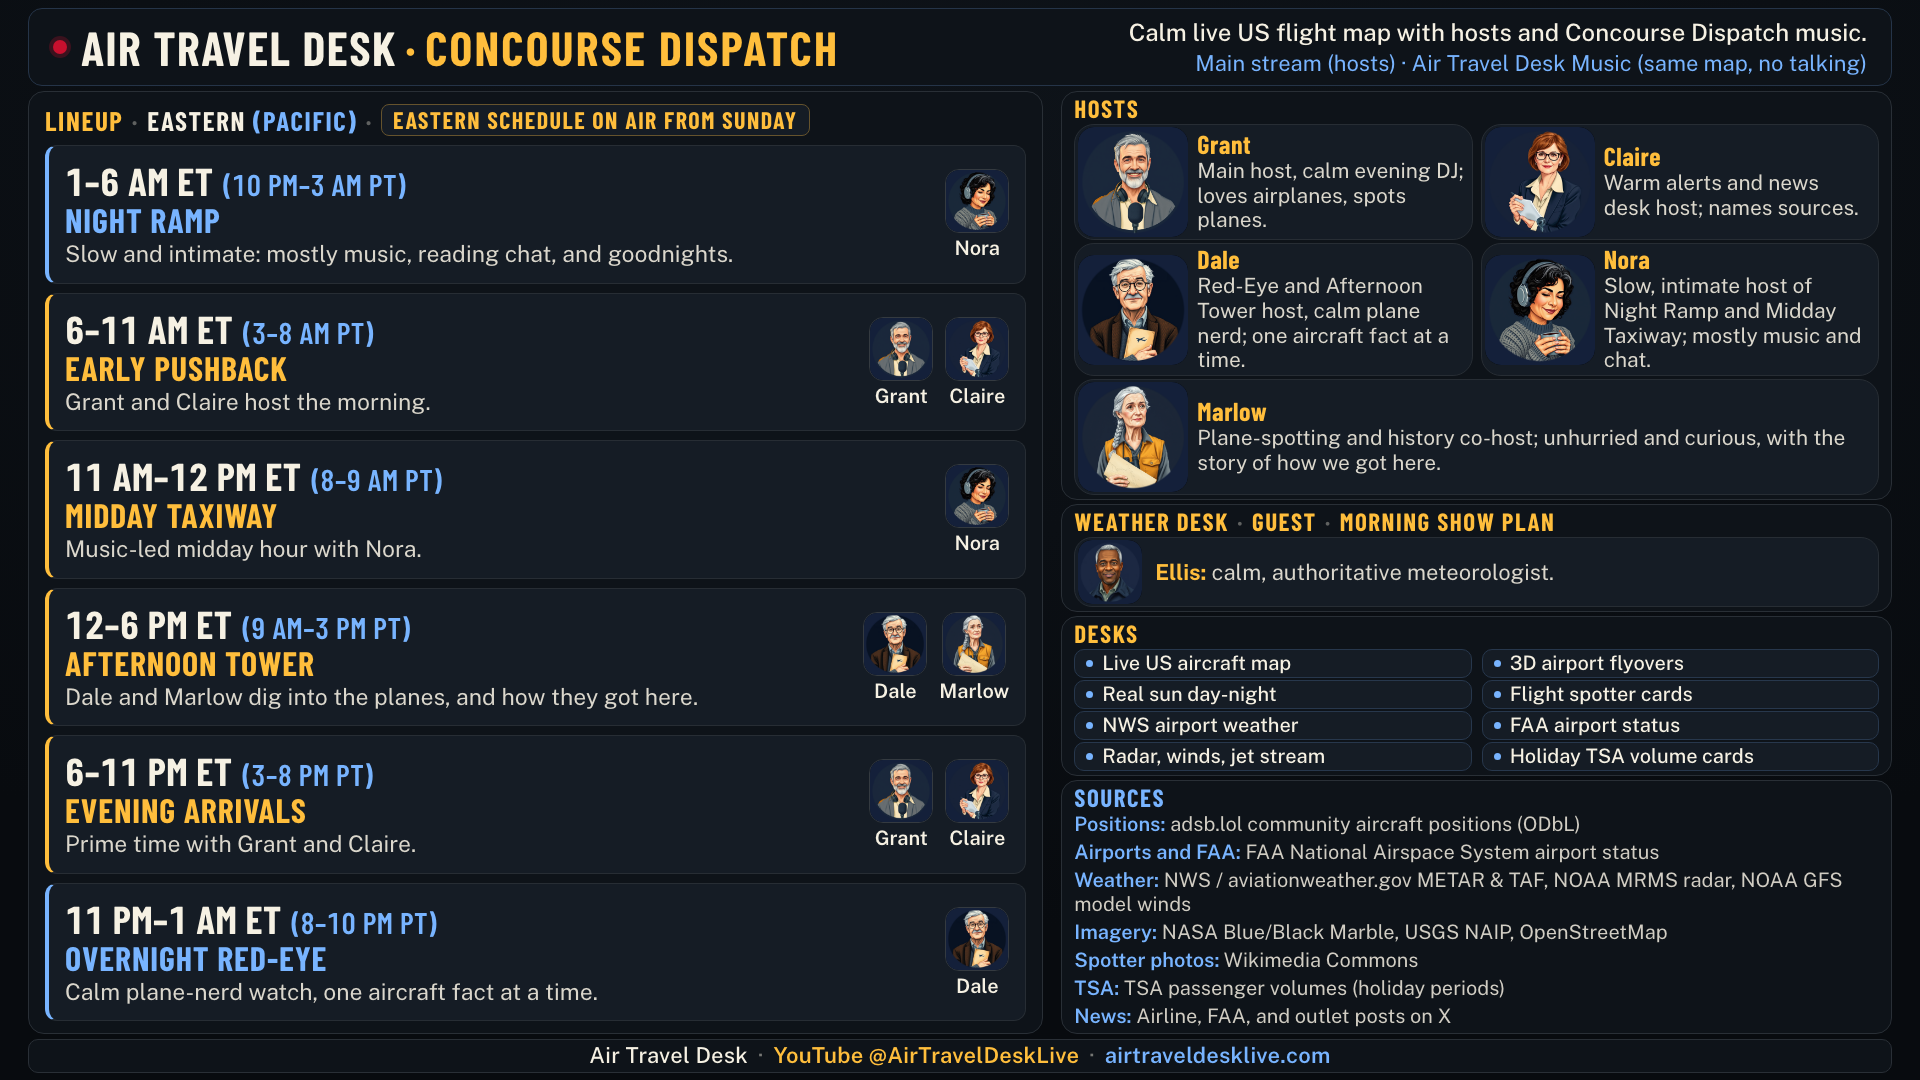
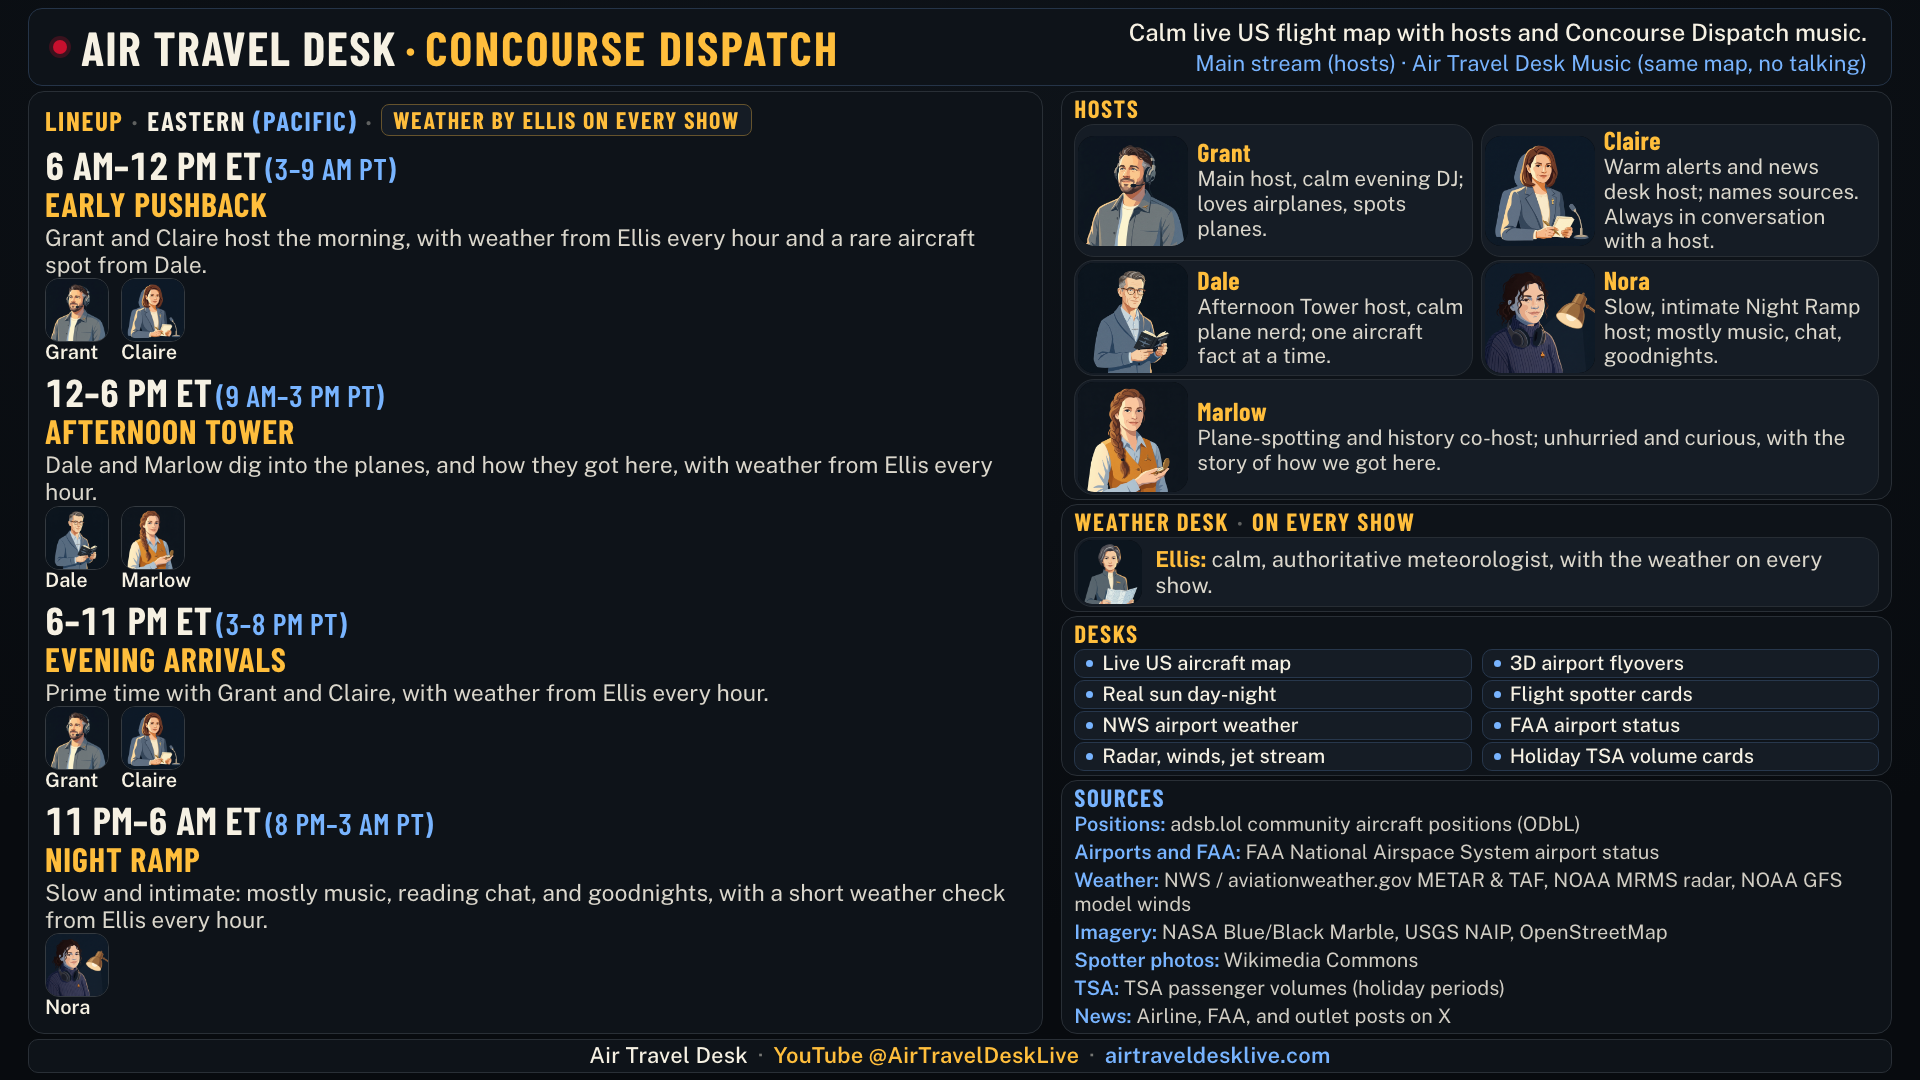
AN221/FA58: four-show lineup (Early Pushback, Afternoon Tower, Evening Arrivals, Night Ramp) built from farm/schedule.json; one-page images redrawn

diff --git a/shows.html b/shows.html
@@ -325,23 +325,8 @@
         <ol class="schedule-list" role="list">
           <li class="schedule-row">
             <div class="schedule-slot">
-              <strong class="show-title">NIGHT RAMP</strong>
-              <span class="show-time">1-6 am ET (10 pm-3 am PT)</span>
-            </div>
-            <div class="schedule-detail">
-              <div class="show-hosts">
-                <span class="show-avatars">
-                  <img class="avatar avatar--sm" src="assets/shows/avatar-nora.webp" width="64" height="64" alt="">
-                </span>
-                <span class="show-host-names">Nora</span>
-              </div>
-              <p class="show-desc">Slow and intimate: mostly music, reading chat, and goodnights.</p>
-            </div>
-          </li>
-          <li class="schedule-row">
-            <div class="schedule-slot">
               <strong class="show-title">EARLY PUSHBACK</strong>
-              <span class="show-time">6-11 am ET (3-8 am PT)</span>
+              <span class="show-time">6 am-12 pm ET (3-9 am PT)</span>
             </div>
             <div class="schedule-detail">
               <div class="show-hosts">
@@ -351,22 +336,7 @@
                 </span>
                 <span class="show-host-names">Grant and Claire</span>
               </div>
-              <p class="show-desc">Grant and Claire host the morning.</p>
-            </div>
-          </li>
-          <li class="schedule-row">
-            <div class="schedule-slot">
-              <strong class="show-title">MIDDAY TAXIWAY</strong>
-              <span class="show-time">11 am-12 pm ET (8-9 am PT)</span>
-            </div>
-            <div class="schedule-detail">
-              <div class="show-hosts">
-                <span class="show-avatars">
-                  <img class="avatar avatar--sm" src="assets/shows/avatar-nora.webp" width="64" height="64" alt="">
-                </span>
-                <span class="show-host-names">Nora</span>
-              </div>
-              <p class="show-desc">Music-led midday hour with Nora.</p>
+              <p class="show-desc">Grant and Claire host the morning, with weather from Ellis every hour and a rare aircraft spot from Dale.</p>
             </div>
           </li>
           <li class="schedule-row">
@@ -382,7 +352,7 @@
                 </span>
                 <span class="show-host-names">Dale and Marlow</span>
               </div>
-              <p class="show-desc">Dale and Marlow dig into the planes, and how they got here.</p>
+              <p class="show-desc">Dale and Marlow dig into the planes, and how they got here, with weather from Ellis every hour.</p>
             </div>
           </li>
           <li class="schedule-row">
@@ -398,22 +368,22 @@
                 </span>
                 <span class="show-host-names">Grant and Claire</span>
               </div>
-              <p class="show-desc">Prime time with Grant and Claire.</p>
+              <p class="show-desc">Prime time with Grant and Claire, with weather from Ellis every hour.</p>
             </div>
           </li>
           <li class="schedule-row">
             <div class="schedule-slot">
-              <strong class="show-title">OVERNIGHT RED-EYE</strong>
-              <span class="show-time">11 pm-1 am ET (8-10 pm PT)</span>
+              <strong class="show-title">NIGHT RAMP</strong>
+              <span class="show-time">11 pm-6 am ET (8 pm-3 am PT)</span>
             </div>
             <div class="schedule-detail">
               <div class="show-hosts">
                 <span class="show-avatars">
-                  <img class="avatar avatar--sm" src="assets/shows/avatar-dale.webp" width="64" height="64" alt="">
+                  <img class="avatar avatar--sm" src="assets/shows/avatar-nora.webp" width="64" height="64" alt="">
                 </span>
-                <span class="show-host-names">Dale</span>
+                <span class="show-host-names">Nora</span>
               </div>
-              <p class="show-desc">Calm plane-nerd watch, one aircraft fact at a time.</p>
+              <p class="show-desc">Slow and intimate: mostly music, reading chat, and goodnights, with a short weather check from Ellis every hour.</p>
             </div>
           </li>
         </ol>
@@ -436,28 +406,28 @@
             <img class="avatar avatar--lg" src="assets/shows/avatar-claire.webp" width="160" height="160" loading="lazy" alt="">
             <div class="host-body">
               <strong class="host-name">Claire</strong>
-              <p>Warm alerts and news desk host; names sources.</p>
+              <p>Warm alerts and news desk host; names sources. Always in conversation with a host.</p>
             </div>
           </li>
           <li class="host-card">
             <img class="avatar avatar--lg" src="assets/shows/avatar-dale.webp" width="160" height="160" loading="lazy" alt="">
             <div class="host-body">
               <strong class="host-name">Dale</strong>
-              <p>Red-Eye and Afternoon Tower host, calm plane nerd; one aircraft fact at a time.</p>
+              <p>Afternoon Tower host, calm plane nerd; one aircraft fact at a time, and a rare aircraft spot in the morning.</p>
             </div>
           </li>
           <li class="host-card">
             <img class="avatar avatar--lg" src="assets/shows/avatar-nora.webp" width="160" height="160" loading="lazy" alt="">
             <div class="host-body">
               <strong class="host-name">Nora</strong>
-              <p>Slow, intimate host of Night Ramp and Midday Taxiway; mostly music and chat.</p>
+              <p>Slow, intimate host of Night Ramp; mostly music and chat.</p>
             </div>
           </li>
           <li class="host-card">
             <img class="avatar avatar--lg" src="assets/shows/avatar-marlow.webp" width="160" height="160" loading="lazy" alt="">
             <div class="host-body">
               <strong class="host-name">Marlow</strong>
-              <p>Plane-spotting and history co-host; unhurried and curious, with the story of how we got here.</p>
+              <p>Afternoon Tower co-host; plane-spotting and history, unhurried and curious, with the story of how we got here.</p>
             </div>
           </li>
           <li class="host-card">
